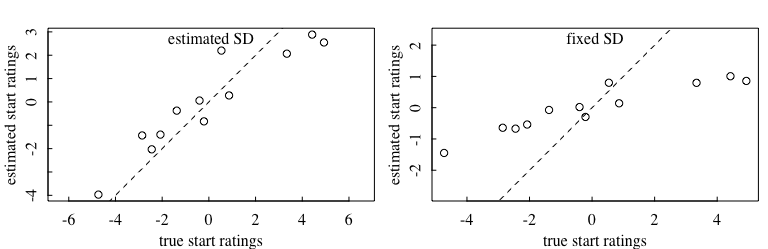
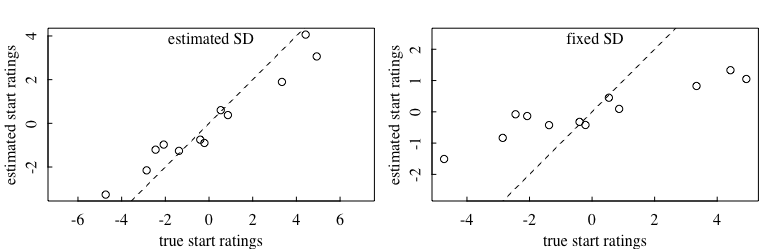
cosmetics and new section in intro vignette
illustrating 'rank changes'

diff --git a/README.md b/README.md
@@ -118,7 +118,8 @@ not.
 
 ``` r
 set.seed(123)
-x <- principled_interactions(n_ind = 12, n_int = 100, startspread = 3)
+r <- make_rating_grid(n_ind = 12, start_sd = 3)
+x <- principled_interactions(rating_grid = r, n_int = 100)
 
 # model 1: estimate with spread
 d1 <- prep_seq(winner = x$idata$winner, loser = x$idata$loser, 
@@ -134,12 +135,12 @@ summary2 <- extract_elo_b(res2, targetdate = 0)
 ```
 
 ``` r
-plot(x$startratings[summary1$id], summary1$median, asp = 1,
+plot(x$rating_grid[1, summary1$id], summary1$median, asp = 1,
      xlab = "true start ratings", ylab = "estimated start ratings")
 abline(0, 1, lty = 2)
 mtext("estimated SD", line = -1)
 
-plot(x$startratings[summary2$id], summary2$median, asp = 1,
+plot(x$rating_grid[1, summary2$id], summary2$median, asp = 1,
      xlab = "true start ratings", ylab = "estimated start ratings")
 abline(0, 1, lty = 2)
 mtext("fixed SD", line = -1)
@@ -150,9 +151,9 @@ mtext("fixed SD", line = -1)
 In both models there a close correlation between true and estimated
 start ratings. In the model that estimates the start rating SD though,
 the recovered start values align with the true values fairly well in an
-absolute sense. The model that assumes a fixed SD for the start ratings
-doesn’t recover the true start ratings in an absolute sense. So that
-looks like a good start. TBC.
+absolute sense (but far from perfect). The model that assumes a fixed SD
+for the start ratings doesn’t recover the true start ratings in an
+absolute sense. So that looks like a good start. TBC.
 
 ## Acknowledgments
 
